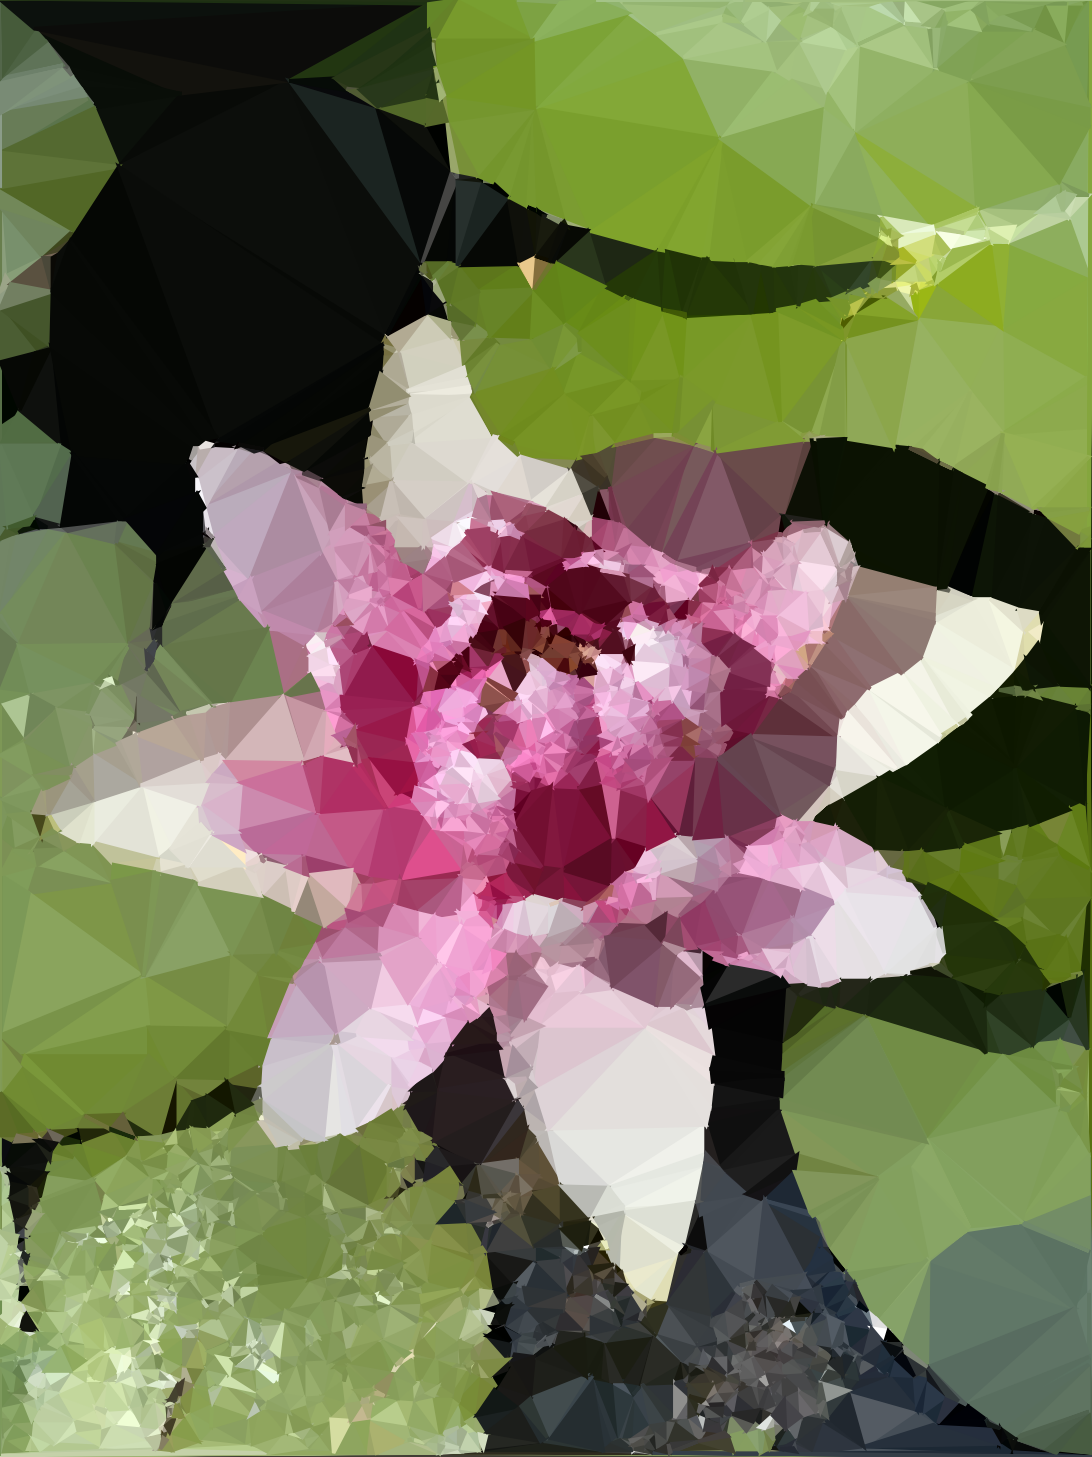
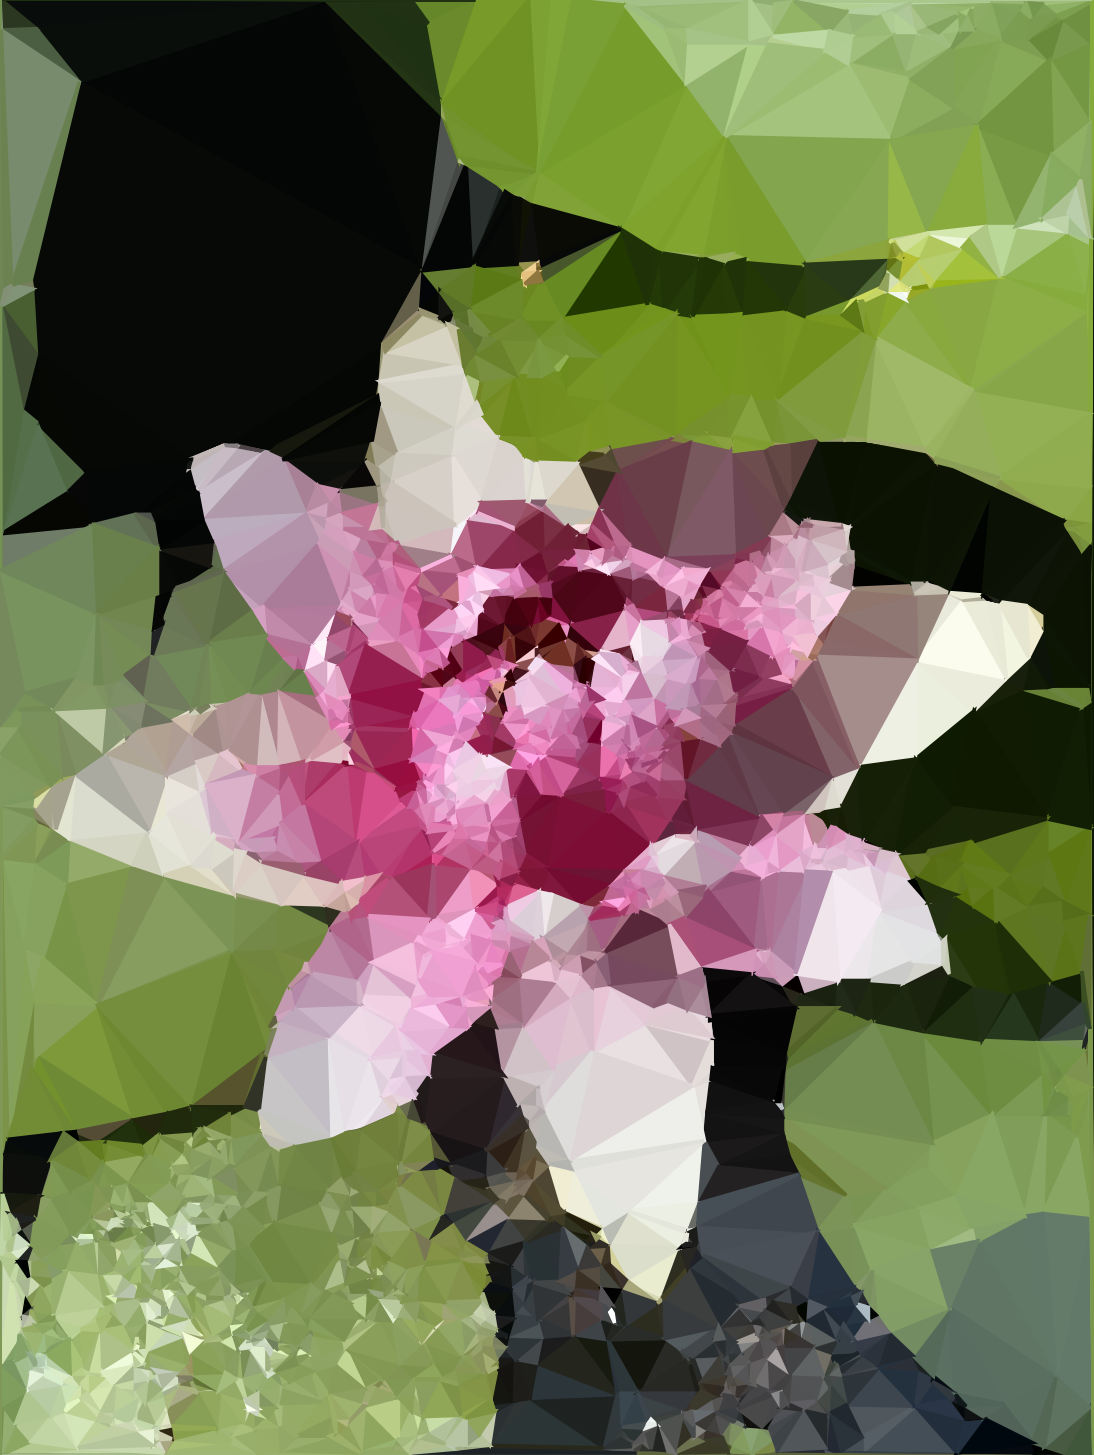
Switched images.

diff --git a/imageTriangulation.py b/imageTriangulation.py
@@ -16,7 +16,7 @@ ImageFile.LOAD_TRUNCATED_IMAGES = True
 # Command line options
 parser = OptionParser()
 parser.add_option('-d', '--d', dest='d',
-                  action='store', type='int', default=40,
+                  action='store', type='int', default=60,
                   help='Density parameter')
 parser.add_option('-f', '--file', dest='filepath', default=os.getcwd() + '/originalImages/waterLily.jpeg',
                   action='store', help='Image path for image to triangulate')
@@ -75,8 +75,7 @@ image.show()
 
 # Image Sharpening
 # Define kernels
-alpha = 4
-H = [[0, -1, 0], [-1, alpha + 4, -1], [0, -1, 0]]
+H = [[0, -1, 0], [-1, 5, -1], [0, -1, 0]]
 
 # Initialize G and populate with 0s as placeholders
 G = [[0]*image.height for i in range(image.width)]

diff --git a/README.md b/README.md
@@ -62,7 +62,7 @@ The algorithm consists of five steps:
 
 __Figure 1__ Original image
 
-Before the algorithm begins, we input the original image (all images taken by us) as well as set the threshold value and density reduction parameter to determine the total number of triangles. The threshold value must be between 0 and 255, and the density reduction parameter must be greater than or equal to 1. Figure 1 displays an example image. The threshold value is set to 50, and the density reduction parameter is set to 40.
+Before the algorithm begins, we input the original image (all images taken by us) as well as set the threshold value and density reduction parameter to determine the total number of triangles. The threshold value must be between 0 and 255, and the density reduction parameter must be greater than or equal to 1. Figure 1 displays an example image. The threshold value is set to 50, and the density reduction parameter is set to 60.
 
 ### 1. Convert to Grayscale
 ![Grayscale image](/readmeImages/waterLily_grey.jpg)
@@ -79,18 +79,18 @@ Notice that the defining feature of a gray color is $r=g=b$. This number is then
 
 __Figure 3__ Sharpened image.
 
-The second step is to sharpen the image using a $3\times3$ kernel in order to more clearly define the edges in the image. The value $\alpha$ controls the degree of sharpening. Here, we use 4, though 1 is also a standard value.
+The second step is to sharpen the image using a $3\times3$ kernel in order to more clearly define the edges in the image.
 ```math
-K=\begin{bmatrix} 0 & -1 & 0 \\ -1 & \alpha + 4 & -1 \\ 0 & -1 & 0 \end{bmatrix} \\
+L_1=\begin{bmatrix} 0 & -1 & 0 \\ -1 & 5 & -1 \\ 0 & -1 & 0 \end{bmatrix} \\
 ```
 ![Image convolution process for x-direction](/readmeImages/convolution.png)
 
 __Figure 4__ Image convolution process.
 
-Figure 4 demonstrates the image convolution process for the x-direction. To perform the convolution, the kernel is overlaid on each pixel in the image. The values in $K$ are multiplied by their corresponding values in the overlay region then summed in a method similar to the dot product. The output 
+Figure 4 demonstrates the image convolution process. To perform the convolution, the kernel is overlaid on each pixel in the image. The values in $L_1$ are multiplied by their corresponding values in the overlay region then summed in a method similar to the dot product. The output 
 is equal to $H_{xy}$.
-$$H_{xy}=\sum_{i=1}^9 I_iK_i$$
-where $H_i$ is the *i*th value in kernel $K$ and $P_i$ is the *i*th pixel in the overlay region. Therefore, for the pixel shown in pink, $H_{xy}=-b-d+8e-f-h$.
+$$H_{xy}=\sum_{i=1}^9 I_iL_{1,i}$$
+where $H_i$ is the *i*th value in kernel $L_1$ and $P_i$ is the *i*th pixel in the overlay region. Therefore, for the pixel shown in pink, $H_{xy}=-b-d+8e-f-h$.
 
 The sharpened image is displayed in Figure 3. The primary difference between the grayscale and sharpened images is the definition of edges. The boundaries between each of the petals, for instance, become much sharper.
 
@@ -126,19 +126,28 @@ The fifth and final step is to color in the triangles. For each triangle, we cal
 The two varying parameters in the algorithm are the threshold value and density reduction parameter.
 
 ### Varying Thresholds
-![Image triangulation for varying thresholds](/readmeImages/thresholdVariation.png)
+![t=25 triangulation](/readmeImages/waterLily_t25_triangulation.png) | ![t=25](/readmeImages/waterLily_t25.png)
+:-------------------------:|:-------------------------:
+![t=50 triangulation](/readmeImages/waterLily_triangulation.png) | ![t=50](/readmeImages/waterLily_final.png)
+:-------------------------:|:-------------------------:
+![t=75 triangulation](/readmeImages/waterLily_t75_triangulation.png) | ![t=75](/readmeImages/waterLily_t75.png)
 __Figure 8__ Point cloud triangulation and final image triangulation for thresholds of 25, 50, and 75.
 
 The threshold value is directly related to the number of vertices in the triangulation. As Figure 8 shows, the number of vertices and triangles decreases as the threshold increases.
 
 ### Varying Density
-![Image triangulation for varying point cloud densities](/readmeImages/densityVariation.png)
-__Figure 9__ Point cloud triangulation and final image triangulation for density reductions of 20, 40, and 60.
+![d=35 triangulation](/readmeImages/waterLily_t25_triangulation.png) | ![d=35](/readmeImages/waterLily_t25.png)
+:-------------------------:|:-------------------------:
+![d=60 triangulation](/readmeImages/waterLily_triangulation.png) | ![d=60](/readmeImages/waterLily_final.png)
+:-------------------------:|:-------------------------:
+![d=85 triangulation](/readmeImages/waterLily_t75_triangulation.png) | ![d=85](/readmeImages/waterLily_t75.png)
+__Figure 9__ Point cloud triangulation and final image triangulation for density reductions of 35, 60, and 85.
 
-Changing the density reduction does not significantly alter the appearance of the final image triangulation compared to varying the threshold. In other words, the output images in Figure 8 do not look very different from the ones in Figure 9. The image in the leftmost panel in Figure 9, though, demonstrates the extent to which density reduction declutters the points. As a result, the main purpose of density reduction is to decrease run time and avoid clusters of very small triangles.
+Changing the density reduction does not significantly alter the appearance of the final image triangulation. The image in the leftmost panel of Figure 9, though, demonstrates the extent to which density reduction declutters the points as opposed to changing the threshold. As a result, the main purpose of density reduction is to decrease run time and avoid clusters of very small triangles.
 
 ### Ramdomized Point Cloud
-![Image triangulation using a random point cloud](/readmeImages/randomPoints.png)
+![Triangulation for random point cloud](/readmeImages/random.png) | ![Triangulated image using a randomized point cloud](/readmeImages/randomTriangulation.png)
+
 __Figure 10__ Point cloud triangulation and final image triangulation for a randomized point cloud.
 
 If we use random points as the vertices for the triangulation, the integrity of the image is lost. Figure 10, for example, shows the image triangulation using 1000 randomly generated points, which is slightly less than the number of vertices that the edge detection method finds. Many of the features are lost, and the image becomes garbled. By using edge detection, though, we can reduce the number of points needed to make a recognizable image and preserve the underlying skeleton.
